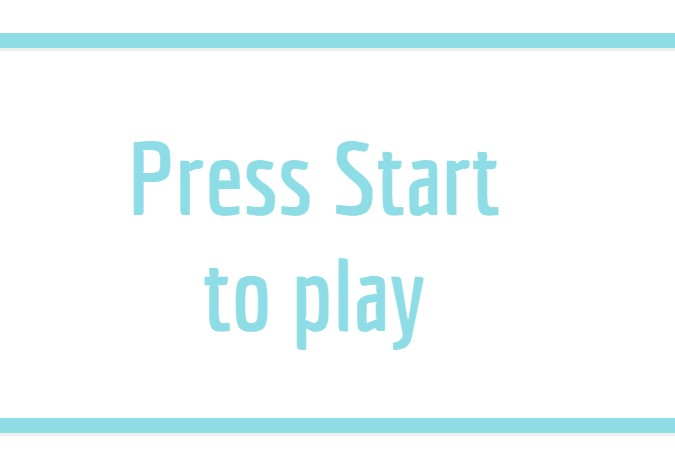
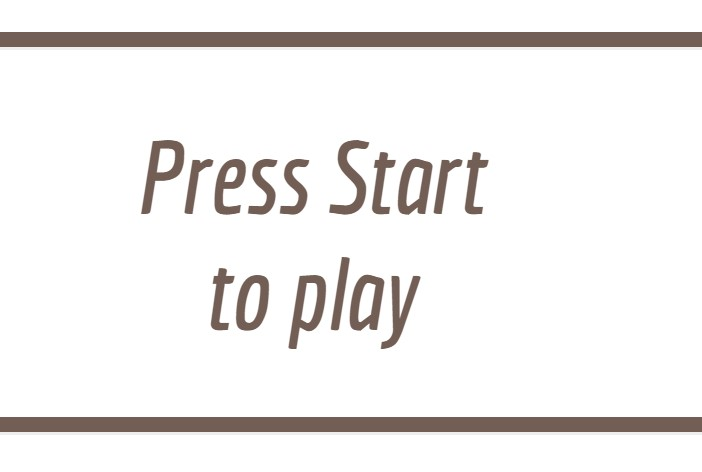
Add refinement to styles

diff --git a/index.html b/index.html
@@ -8,7 +8,7 @@
     <link href="https://cdn.jsdelivr.net/npm/bootstrap@5.3.3/dist/css/bootstrap.min.css" rel="stylesheet"
         integrity="sha384-QWTKZyjpPEjISv5WaRU9OFeRpok6YctnYmDr5pNlyT2bRjXh0JMhjY6hW+ALEwIH" crossorigin="anonymous">
     <!-- favourite icon -->
-        <link rel="shortcut icon" href="assets/img/flagiticopng.jpg" type="image/x-icon">
+    <link rel="shortcut icon" href="assets/img/flagiticon.jpg" type="image/x-icon">
     <!--- css file-->
     <link rel="stylesheet" href="assets/css/style.css">
     <meta name="author" content="L5 Web Diploma student">
@@ -29,16 +29,16 @@
             </button>
             <div class="collapse navbar-collapse" id="navbarSupportedContent">
                 <div class="container-fluid">
-                    <a class="btn btn-info btn-block btn-md disabled" type="button" href="index.html" role="button">Home</a>
+                    <a class="btn btn-info btn-block btn-md disabled" type="button" href="index.html"
+                        role="button">Home</a>
                     <a class="btn btn-info btn-block btn-md" type="button" href="htp.html" role="button">How to Play</a>
-                    <a class="btn btn-info btn-block btn-md" type="button" href="stf.html" role="button">Study Flags</a> 
-                    <a class="btn btn-info btn-block btn-md " type="button" href="game.html" role="button">Game</a>   
+                    <a class="btn btn-info btn-block btn-md" type="button" href="stf.html" role="button">Study Flags</a>
+                    <a class="btn btn-info btn-block btn-md " type="button" href="game.html" role="button">Game</a>
                 </div>
 
             </div>
         </div>
     </nav>
-
     <div class="ind-wrap-banner-panel">
         <div id="gameBody" class="ind-banner">
             <span class="ind-head font-banner txt-nonphotoblue">"Flag - It!"</span>
@@ -58,11 +58,6 @@
             </footer>
         </div>
     </div>
-
-    
-  
-
-    <script src="assets/js/index.js"></script>
     <script src="https://cdn.jsdelivr.net/npm/bootstrap@5.3.3/dist/js/bootstrap.bundle.min.js"
         integrity="sha384-YvpcrYf0tY3lHB60NNkmXc5s9fDVZLESaAA55NDzOxhy9GkcIdslK1eN7N6jIeHz" crossorigin="anonymous">
     </script>

diff --git a/htp.html b/htp.html
@@ -8,7 +8,7 @@
     <link href="https://cdn.jsdelivr.net/npm/bootstrap@5.3.3/dist/css/bootstrap.min.css" rel="stylesheet"
         integrity="sha384-QWTKZyjpPEjISv5WaRU9OFeRpok6YctnYmDr5pNlyT2bRjXh0JMhjY6hW+ALEwIH" crossorigin="anonymous">
     <!-- favourite icon -->
-    <link rel="shortcut icon" href="assets/img/flagiticopng.jpg" type="image/x-icon">
+    <link rel="shortcut icon" href="assets/img/flagiticon.jpg" type="image/x-icon">
     <!--- css file-->
     <link rel="stylesheet" href="assets/css/style.css">
     <meta name="author" content="L5 Web Diploma student">

diff --git a/stf.html b/stf.html
@@ -8,7 +8,7 @@
     <link href="https://cdn.jsdelivr.net/npm/bootstrap@5.3.3/dist/css/bootstrap.min.css" rel="stylesheet"
         integrity="sha384-QWTKZyjpPEjISv5WaRU9OFeRpok6YctnYmDr5pNlyT2bRjXh0JMhjY6hW+ALEwIH" crossorigin="anonymous">
     <!-- favourite icon -->
-    <link rel="shortcut icon" href="assets/img/flagiticopng.jpg" type="image/x-icon">
+    <link rel="shortcut icon" href="assets/img/flagiticon.jpg" type="image/x-icon">
     <!--- css file-->
     <link rel="stylesheet" href="assets/css/style.css">
     <meta name="author" content="L5 Web Diploma student">

diff --git a/game.html b/game.html
@@ -8,7 +8,7 @@
     <link href="https://cdn.jsdelivr.net/npm/bootstrap@5.3.3/dist/css/bootstrap.min.css" rel="stylesheet"
         integrity="sha384-QWTKZyjpPEjISv5WaRU9OFeRpok6YctnYmDr5pNlyT2bRjXh0JMhjY6hW+ALEwIH" crossorigin="anonymous">
 
-    <link rel="shortcut icon" href="assets/img/flagiticopng.jpg" type="image/x-icon">
+    <link rel="shortcut icon" href="assets/img/flagiticon.jpg" type="image/x-icon">
 
     <!-- css file -->
     <link rel="stylesheet" href="assets/css/style.css">

diff --git a/umgpage.html b/umgpage.html
@@ -76,10 +76,10 @@
     <!-- on page then making images from these  -->
     <br>
     <br>
-    <hr class="format">
-    <h1 class="formath1">Press Start <br>
+    <hr class="format-2">
+    <h1 class="formath1-2">Press Start <br>
         to play </h1>
-    <hr class="format">
+    <hr class="format-2">
     <br>
     <br>
     <hr class="format-2">
